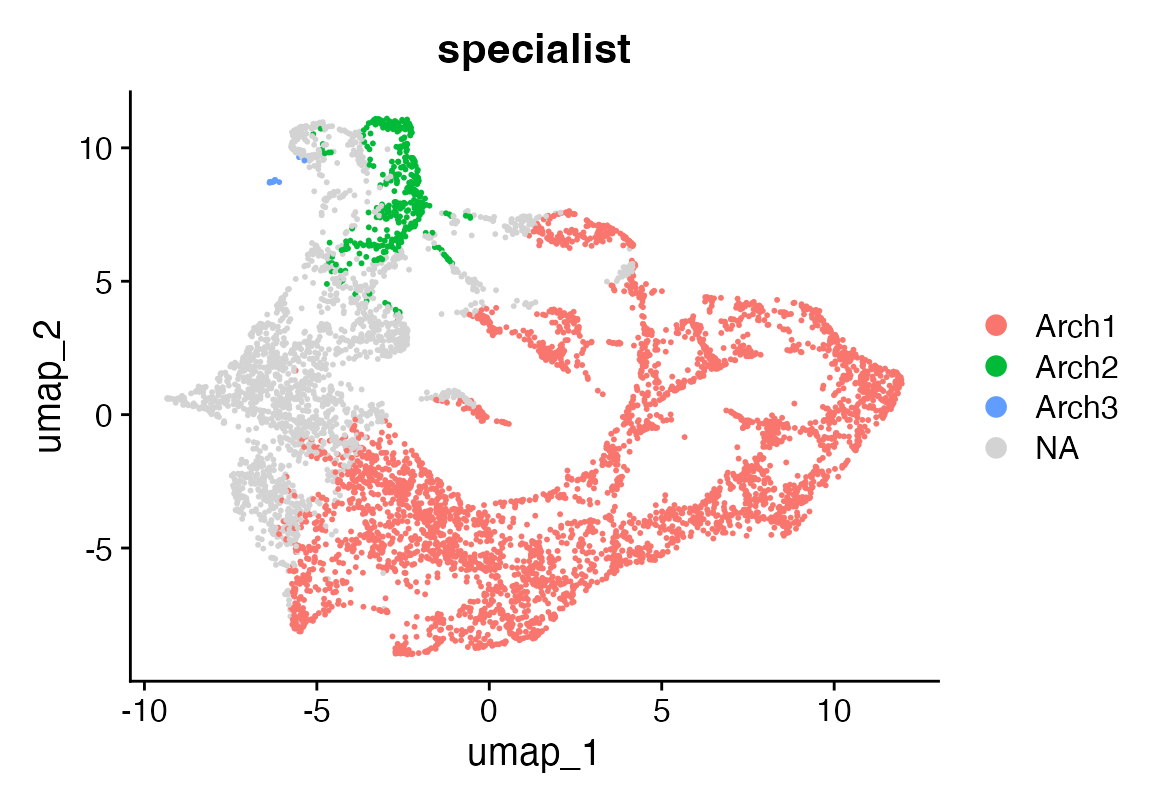
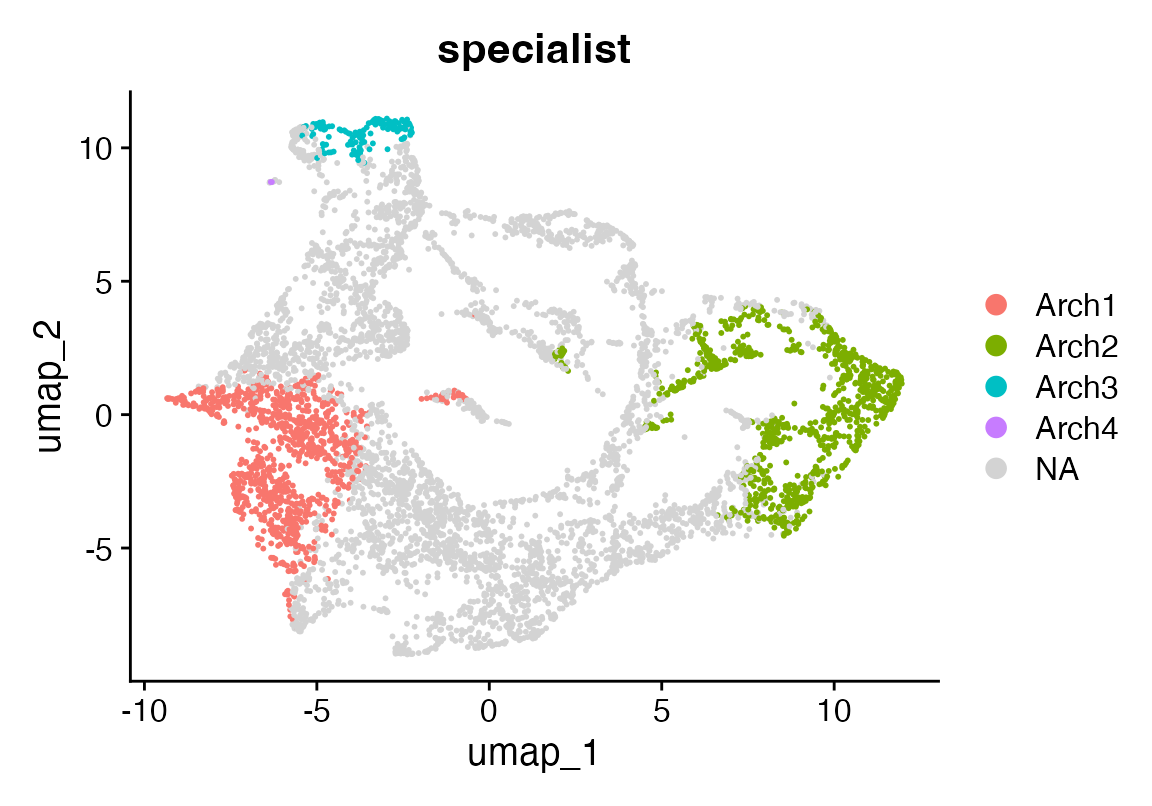
Built site for rustytools@0.0.2:

diff --git a/articles/magic.html b/articles/magic.html
@@ -341,7 +341,7 @@ modest levels of CD33.</p>
 <code class="sourceCode R"><span><span class="fu"><a href="https://rdrr.io/r/base/message.html" class="external-link">suppressPackageStartupMessages</a></span><span class="op">(</span><span class="op">{</span></span>
 <span>  <span class="kw"><a href="https://rdrr.io/r/base/library.html" class="external-link">library</a></span><span class="op">(</span><span class="va"><a href="https://satijalab.org/seurat" class="external-link">Seurat</a></span><span class="op">)</span></span>
 <span>  <span class="kw"><a href="https://rdrr.io/r/base/library.html" class="external-link">library</a></span><span class="op">(</span><span class="va"><a href="https://github.com/samuel-marsh/scCustomize" class="external-link">scCustomize</a></span><span class="op">)</span></span>
-<span>  <span class="kw"><a href="https://rdrr.io/r/base/library.html" class="external-link">library</a></span><span class="op">(</span><span class="va"><a href="https://furlan-lab.github.io/rustytools/">rustytools</a></span><span class="op">)</span>   <span class="co"># your package exposing diffuse_expr_r()</span></span>
+<span>  <span class="kw"><a href="https://rdrr.io/r/base/library.html" class="external-link">library</a></span><span class="op">(</span><span class="va"><a href="https://furlan-lab.github.io/rustytools/">rustytools</a></span><span class="op">)</span></span>
 <span>  <span class="kw"><a href="https://rdrr.io/r/base/library.html" class="external-link">library</a></span><span class="op">(</span><span class="va"><a href="https://magrittr.tidyverse.org" class="external-link">magrittr</a></span><span class="op">)</span></span>
 <span><span class="op">}</span><span class="op">)</span></span>
 <span></span>

diff --git a/articles/pcha.html b/articles/pcha.html
@@ -406,7 +406,7 @@ from above</p>
 <p><img src="pcha_files/figure-html/unnamed-chunk-6-2.png" width="100%"></p>
 <div class="sourceCode" id="cb14"><pre class="downlit sourceCode r">
 <code class="sourceCode R"><span><span class="fu"><a href="https://rdrr.io/r/base/cat.html" class="external-link">cat</a></span><span class="op">(</span><span class="st">"Optimal number of archetypes ="</span>, <span class="va">kp</span><span class="op">$</span><span class="va">knee_x</span>, <span class="st">"\n"</span><span class="op">)</span></span></code></pre></div>
-<pre><code><span><span class="co">## Optimal number of archetypes = 3</span></span></code></pre>
+<pre><code><span><span class="co">## Optimal number of archetypes = 4</span></span></code></pre>
 <div class="sourceCode" id="cb16"><pre class="downlit sourceCode r">
 <code class="sourceCode R"><span><span class="va">noc</span> <span class="op">&lt;-</span> <span class="va">kp</span><span class="op">$</span><span class="va">knee_x</span></span>
 <span><span class="va">res</span> <span class="op">&lt;-</span> <span class="fu"><a href="../reference/pcha.html">pcha</a></span><span class="op">(</span><span class="va">X</span>, noc <span class="op">=</span> <span class="va">noc</span><span class="op">)</span> </span>

diff --git a/articles/introduction.html b/articles/introduction.html
@@ -195,15 +195,15 @@ advantage over traditional R-native solutions.</p>
 <ul>
 <li>
 <strong>FASTA reading</strong> – random access to large genome files
-See the <a href="articles/getConsensus.html">Fasta vignette</a>
+See the <a href="getConsensus.html">Fasta vignette</a>
 </li>
 <li>
 <strong>MAGIC</strong> – imputation of scRNA-seq using diffusion
-maps See the <a href="articles/magic.html">MAGIC vignette</a>
+maps See the <a href="magic.html">MAGIC vignette</a>
 </li>
 <li>
 <strong>PCHA</strong> – archetypal decomposition of matrices See the
-<a href="articles/pcha.html">PCHA vignette</a>
+<a href="pcha.html">PCHA vignette</a>
 </li>
 </ul>
 <p>Each tool is designed for high performance, especially on large-scale
